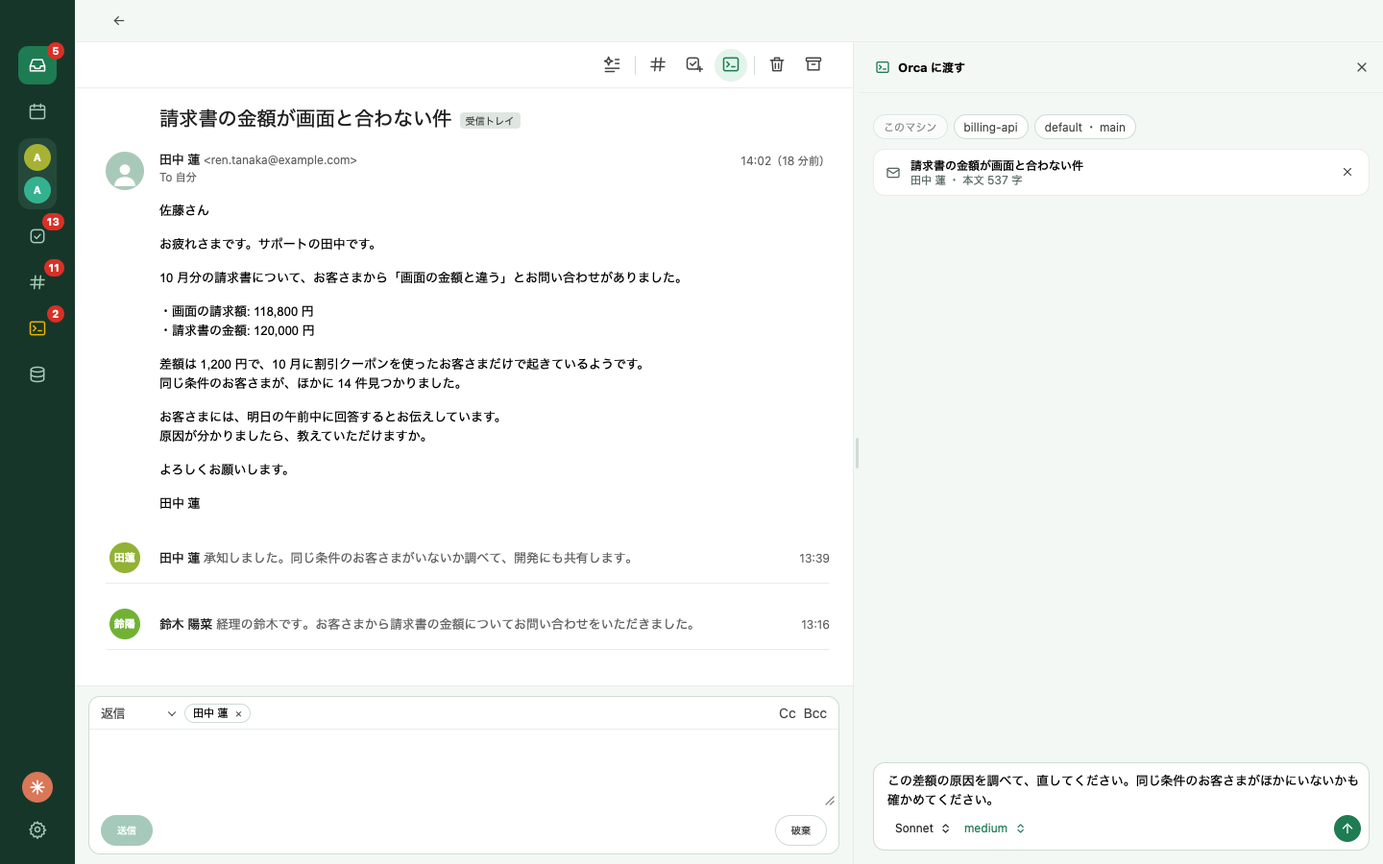
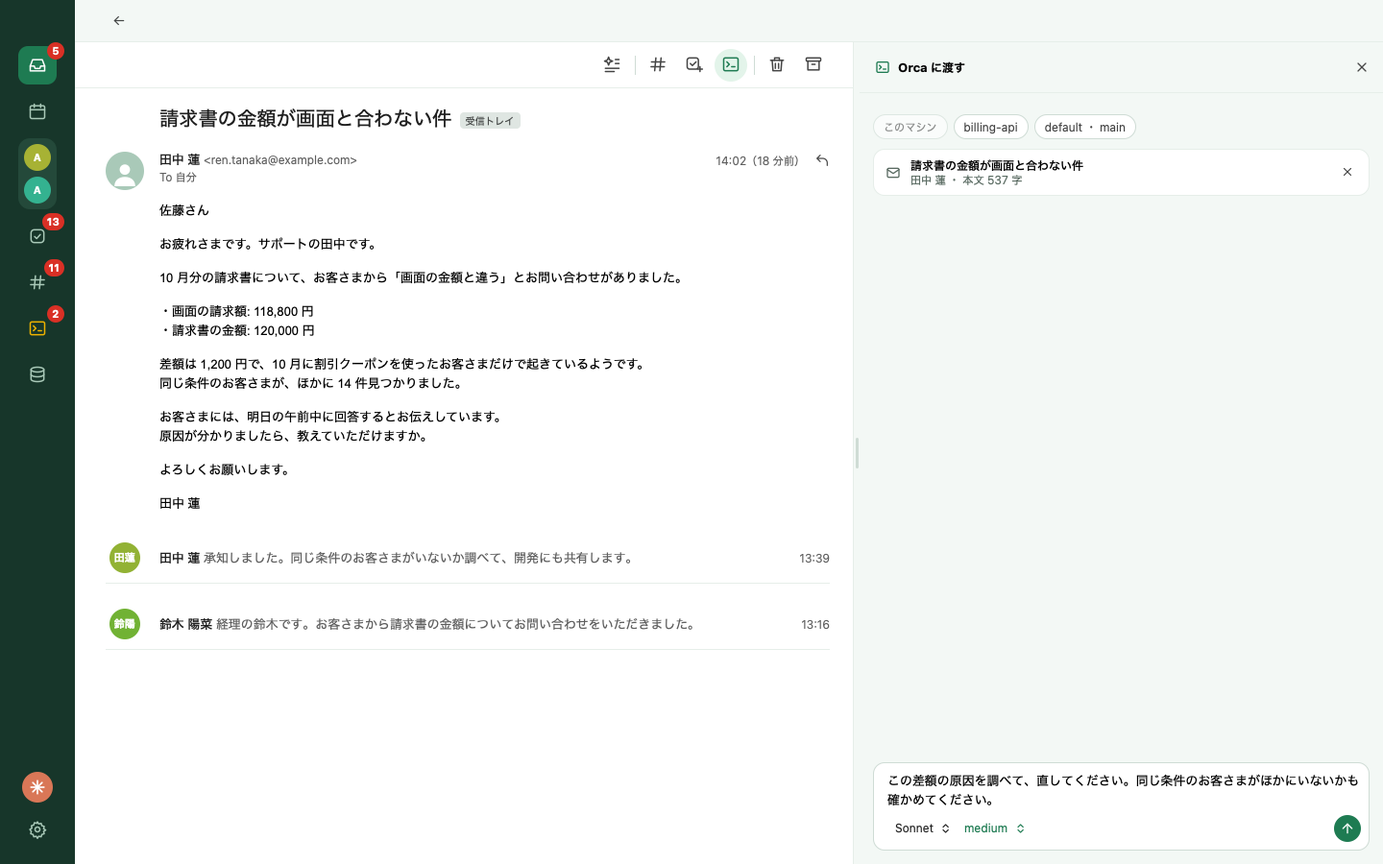
docs: v0.75.1 の CHANGELOG と機能の一覧を書く
This commit is v0.75.1.

diff --git a/docs/features.md b/docs/features.md
@@ -8,7 +8,7 @@ title: 機能
 
 - 複数の Gmail アカウントを追加し、全アカウントの受信トレイを 1 つの一覧で表示する（未読を上、既読を下に分け、それぞれ新しい順）。アカウントの追加と、各アカウントの状態と未読の件数の確認は、設定の「Google」タブで行う
 - スレッドを開いて本文を表示する（日本語の文字コードと HTML メールに対応。メールに埋め込まれた画像は表示する。外部の画像は既定では読み込まず、メッセージの「画像を表示」を押したときだけ取得し、その送信者のアドレスを覚えて、以後はその送信者のメッセージの画像を自動で表示する。自動で取得するのは、Gmail が付けた認証結果（Authentication-Results）が DMARC 合格、または From のドメインと一致する DKIM 署名の合格のメッセージだけで、そうでないメッセージは覚えた送信者でも「画像を表示」を押すまで取得しない。行を押すとすぐ詳細の画面に移り、件名と送り主を出して、本文が届くまで「読み込んでいます…」を出す（届くまで、戻る以外のボタンは押せない）。一度開いたスレッドを開き直すと、前に取った内容をすぐに出し、裏で Gmail に取り直して、返信が届いたときなど内容が変わっていたときだけ出し直す（開いた内容はメモリにだけ持ち、アプリを終了すると消える）。未読のスレッドを開くと既読になる。本文のリンクを押すと、既定のブラウザで開く。HTML の本文の中に文字で書かれた http と https の URL もリンクになる。本文は Gmail と同じ書体（Arial）で出し、メールが書体を指定していればそれに従う。テキスト形式のメールの本文も同じ書体で出し、設定でメールの画面の書体を選ぶとそれを使う。件名のすぐ上に、AI 要約（Claude Code を使えるときだけ）、Slack に貼る、Todo にする、Orca に渡す、ゴミ箱へ移動、アーカイブのボタンが右に寄せて 1 行に並び、本文をスクロールしても残る。上端の帯には「戻る」だけがある。複数のメッセージがあるスレッドでは、新しい順に並べ、最新のメッセージだけを一番上で開き、古いものは 1 行に畳んで、押すと開く）
-- スレッドの下に固定した返信欄から、返信を書いて送る（欄はメッセージの下にあり、メッセージはその上でスクロールするので、読みながら書ける。「返信」は最後のメッセージの差出人（Reply-To があればその宛先）に、「全員に返信」はその人と To のほかの人に送り、Cc の人を Cc に入れる。自分のアカウントは宛先に入れない。宛先はチップで並び、× で外せる。「Cc」「Bcc」を押すとその行が開き、アドレスを打って Enter かカンマを打つか、欄を離れるとチップになる。本文はテキスト。「送信」で、スレッドを受け取ったアカウントから、同じスレッドへの返信として送り、スレッドを読み直して、送ったメールを出す。失敗したときはエラーを出し、書いた内容は残る。「破棄」で欄を空にする。スレッドを離れると書きかけは消え、下書きは保存しない。ファイルは添付できない。Gmail の `users.messages.send` で送り、スコープは `gmail.modify` のままなので、再ログインは要らない）
+- 最新のメッセージの日時の右にある返信のボタンで、スレッドの下に返信欄を開き、返信を書いて送る（欄はメールの画面の高さの半分を取り、メッセージはその上でスクロールするので、読みながら書ける。「返信」は最後のメッセージの差出人（Reply-To があればその宛先）に、「全員に返信」はその人と To のほかの人に送り、Cc の人を Cc に入れる。自分のアカウントは宛先に入れない。宛先はチップで並び、× で外せる。「Cc」「Bcc」を押すとその行が開き、アドレスを打って Enter かカンマを打つか、欄を離れるとチップになる。本文は Slack の投稿欄と同じく書式つきで書け（太字、斜体、取り消し線、リンク、リスト、引用、コード）、HTML のメールとテキストのメールを両方入れて送る。「送信」（⌘Enter でもよい）で、スレッドを受け取ったアカウントから、同じスレッドへの返信として送り、スレッドを読み直して、送ったメールを出す。失敗したときはエラーを出し、書いた内容は残る。送れたときと「破棄」で、欄を空にして閉じる。スレッドを離れると書きかけは消え、下書きは保存しない。ファイルは添付できない。Gmail の `users.messages.send` で送り、スコープは `gmail.modify` のままなので、再ログインは要らない）
 - 受信トレイの見出しの「作成」（鉛筆のアイコン）で、新しいメールを書く画面を開く（ダイアログではなく、メールの画面の中に開く。「差出人」は送るアカウントで、アカウントが複数あれば選べる。「宛先」「Cc」「Bcc」は返信欄と同じチップで、その下に「件名」と本文（テキスト）がある。下に固定した帯の「送信」で送り、送れたら「送信しました」と出して受信トレイに戻る。失敗したときはエラーを出し、書いた内容は残る。「戻る」と「破棄」は、書いた内容を捨てて受信トレイに戻る。ファイルは添付できない）
 - スレッドをアーカイブする・ゴミ箱へ移動する（詳細画面のボタン、または一覧の行にマウスを乗せると出るボタン）。直前の 1 件は Cmd+Z（Windows では Ctrl+Z）かお知らせの「元に戻す」で戻せる
 - 一覧のチェックボックスで、スレッドを既読・未読にする（未読の行には緑の点が付く）。未読の行の上の見出し「未読」の右端の「すべて既読にする」で、一覧に出ている未読のスレッドをまとめて既読にでき（最大 4 件ずつ送る。失敗した行は未読に戻してエラーを出す）、通知の「元に戻す」で未読に戻せる
@@ -29,7 +29,7 @@ title: 機能
 - 「未読」のチャンネルの見出しの右端のアイコン「既読にする」で、そのチャンネルの既読位置を最新の未読のメッセージまで進める（一覧に出ていない分も含む。戻せない）。そのチャンネルのスレッドの未読の返信も既読になる。スレッドは開かない。1 件ずつ既読にするチェックと、一覧全体の「すべて既読にする」はない
 - 未読の返信があるスレッドは未読の段に出し、行の下の「未読の返信 N 件」で返信を開閉する（最初は開いている。ここで読んでも Slack 側のスレッドの未読は消えない）
 - サイドメニューのチャンネルを押すと、そのチャンネルの履歴を開く（最新の 50 件を、古い順に日付の区切りの下に出し、最新のメッセージの位置で開く。ヘッダーはチャンネルの名前とワークスペースの名前だけ。行は未読の行と同じで、返信のあるメッセージは「N 件の返信」でスレッドを開き、しおりでウォッチできる。リアクションは、本文の下に絵文字と数で並び（カスタム絵文字は画像で出す。画像を読むには `emoji:read` が要り、なければ `:名前:` で出す）、押して付け外しできる（自分が付けたものは枠の色が変わる。付け外しには `reactions:write` が要る）。最後の「☺+」でピッカーを開き、絵文字を検索して付けられる（最近・このワークスペース・標準の順。このアプリを開いている間に付けたものが「最近」に並ぶ）。スレッドへの返信をチャンネルにも投稿したメッセージには、本文の上に薄い色で「スレッドに返信済み: 」と元のメッセージの書き出しを出し、押すとそのスレッドを開く。チャンネルを押すと、「未読」の見出しの「既読にする」と同じく、そのチャンネルを既読にする。読めないときはエラーと「再読み込み」を出す）
-- チャンネルの履歴の下の欄から、そのチャンネルに投稿できる（欄は書式つきで書け、枠の上の段のボタンで、選んだ文字を太字、斜体、取り消し線、リンク、番号付きリスト、箇条書き、引用、コード、コードブロックにできる。Enter は改行、⌘Enter（Windows は Ctrl+Enter）か枠の右下の矢印で、自分の名前で投稿する。書式は Slack の書き方に直して送り、リンクは http、https、mailto のアドレスだけをリンクにする。空の文章は投稿できず、10,000 文字まで。投稿できたら欄を空にして履歴を読み直し、最新のメッセージを出す。失敗したときはエラーを出して文章を残す。書きかけの文章は、チャンネルごとにアプリを終了するまで残る）
+- チャンネルの履歴の下の欄から、そのチャンネルに投稿できる（欄は書式つきで書け、枠の上の段のボタンで、選んだ文字を太字、斜体、取り消し線、リンク、番号付きリスト、箇条書き、引用、コード、コードブロックにできる。Enter は改行、⌘Enter（Windows は Ctrl+Enter）か枠の右下の矢印で、自分の名前で投稿する。書式は Slack の書き方に直して送り（空の行は空の行のまま送る）、リンクは http、https、mailto のアドレスだけをリンクにする。空の文章は投稿できず、10,000 文字まで。投稿できたら欄を空にして履歴を読み直し、最新のメッセージを出す。失敗したときはエラーを出して文章を残す。書きかけの文章は、チャンネルごとにアプリを終了するまで残る）
 - Slack の一覧の読み込みで新しい未読のメッセージが見つかると、ウィンドウの右下にカードを出す（送信者のアイコンと名前、チャンネル、本文を 1 行で。既読にする・ウォッチ・スレッドを開くのボタン。スレッドを開くは他の画面からでもそのスレッドに移る。新着メールのカードと同じ積み重ねで、合わせて最大 3 枚。10 秒で消える（マウスやフォーカスが乗っている間は残る）。そのメッセージが未読でなくなると（一覧や Slack で既読にしたときも、チャンネルを一覧から外したときも、ウォッチしたときも）すぐに消える。起動後の最初の読み込みと、ウォッチしたスレッドでは出さず、OS の通知も使わない）
 - 一覧の行を押すと、そのスレッドの詳細が開く（メッセージを古い順に、送信者のアイコン、名前、時刻、本文で出す。本文の Slack の書式（`*太字*`、`_斜体_`、`~取り消し~`、`` `コード` ``、``` で囲んだコードブロック、`>` で始まる引用）は、その見た目で出す。添付の画像はサムネイルで、画像でないファイルは名前の札で出し、押すと Slack で開く。ボットやアプリの投稿のブロックと添付のカードも出す（URL 付きのボタンは既定のブラウザで開く。画像は「画像を表示」を押したときだけ取得する。添付の長い本文は最初の 5 行で畳み、「もっと表示する」で全文を出す。別のメッセージを共有した投稿では、そのメッセージへのリンクを「メッセージ」というラベルで出す）。メッセージのリアクションは、本文の下に絵文字と数で並び、チャンネルの履歴と同じく、カスタム絵文字は画像で出し、押して付け外しでき、「☺+」のピッカーから付けられる。「Slack で開く」と、「Todo にする」（Claude Code と Todoist が使えるときだけ。要約のカードは「[Slack のメッセージを要約して Todo にする](slack.md#slack-のメッセージを要約して-todo-にする)」と同じ）がある）
 - Slack の本文のユーザーへのメンションは、そのユーザーのプロフィールへのリンクになり、押すと既定のブラウザで開く（一覧、チャンネルの履歴、スレッド。ユーザーグループへのメンションは文字のまま）
@@ -49,7 +49,7 @@ title: 機能
 - 新しい版が GitHub Releases に出ると、右下にポップアップが現れ、設定のアイコンと、設定の「アップデート」タブに赤い点が付く。ポップアップの「更新して再起動」を押すと、新しい版をダウンロードして署名を確かめ、入れ替えて再起動する（古いアプリが終わってから新しいアプリを開く。macOS の Apple Silicon のみ。起動時と 5 分ごとに確認する）。「あとで」で閉じると、同じ版ではアプリを終了するまで出ない（新しい版が出れば、また出る）
 - 設定の「アップデート」タブに、いま動いている版を表示する。更新の方法は「手動」と「自動」から選べる（初期値は自動）。手動は上の動きで、自動は新しい版が見つかり次第、裏で入れ替える（再起動はしない。ポップアップが「新しい版の準備ができました」になり、「再起動」を押すと再起動する。再起動を待つあいだも確認を続け、入れ替えた版よりさらに新しい版が出ていれば、それを入れ替え直す。同じ版は取り直さない）。新しい版があるときは、このタブにも同じボタンが出る（「あとで」のあとも出る）。「今すぐ確認」で、すぐに確かめ直せる
 - 設定の「ログ」タブで、アプリのログを見る（新しい順の表で、時刻、重さ（エラー、警告、情報）、場所、内容を出す。「すべて」「エラー」「警告」で絞り込み、「コピー」で出ている行をコピーし、「フォルダを開く」でログのファイル `app-log.jsonl` があるフォルダを開く。ログはタブを出すたびに読む。ログに書き込む機能はまだないので、いまは「ログはありません」と出る）
-- サイドメニューの Orca のアイコンで、Orca のプロジェクトを一覧する（状態のアイコンとセッション数を出し、SSH の接続先も並べる）。作業中のセッションがあるプロジェクトを先頭に集め、その中は入った順に固定して、新しく作業が始まったものを先頭に入れる（作業が進んでも入れ替わらない）。その下に、セッションはあるが作業中ではないプロジェクトを並べ、セッションの無いプロジェクトはその下に並べる（どちらも最近動いた順）。プロジェクトの行は、矢印で開くとセッションごとの行が 1 段字下げして出る（複数のプロジェクトを同時に開ける。最初は作業中のプロジェクトがすべて開いていて、閉じたプロジェクトも、新しいセッションが作業を始めると開き直す。行を押すとそのタブを選び、タブを押すとその行が選ばれる）。入力待ちと、完了や中断で止まって未確認のセッションの件数はサイドメニューのアイコンに出す。作業中のセッションがある間は、アイコンが黄色になってゆっくり明滅する。一覧の幅はドラッグで変えられる。右のペインではプロジェクトのセッションをタブで切り替え、タブから閉じられる。タブはどれもセッションのターミナルで、そのまま打ち込める。最後のタブのすぐ右の＋から「Claude を起動」か「ターミナルを開く」を選ぶと（＋には「スクラッチパッド」もある）、左で選んでいるプロジェクトか SSH の接続先の worktree で始め、そのタブを開く（worktree が 2 件以上なら選ぶ画面を出す）。作業ペインは左右と上下に、数の制限なく分割できる。タブの右クリックの「右に分割」「下に分割」（ファイルのタブでは「パスのコピー」「相対パスをコピー」も出る）か、タブを別のペインの端へドラッグして分け、タブ列か中央へ落とすとそのペインに移る。ペインはそれぞれタブ列と＋を持ち、タブが無くなったペインは閉じる。ペインの境界をドラッグすると、隣り合う 2 つのペインの幅（上下の分割では高さ）を変えられる。分割と大きさはプロジェクトごとに保存し、開き直すと戻る。ターミナルで Claude を起動しても（終わってシェルに戻っても）、そのタブは同じペインの同じ位置に残る。接続先は左ペインの下端で、このマシンか Orca に保存したサーバーから選ぶ（`orca` CLI と Orca のペアリング情報を使う。アプリは履歴を保存しない）
+- サイドメニューの Orca のアイコンで、Orca のプロジェクトを一覧する（状態のアイコンとセッション数を出し、SSH の接続先も並べる）。作業中のセッションがあるプロジェクトを先頭に集め、その中は入った順に固定して、新しく作業が始まったものを先頭に入れる（作業が進んでも入れ替わらない）。その下に、セッションはあるが作業中ではないプロジェクトを並べ、セッションの無いプロジェクトはその下に並べる（どちらも最近動いた順）。プロジェクトの行は、矢印で開くとセッションごとの行が 1 段字下げして出る（行には Orca と同じく会話の名前を出し、最後の返答があれば「名前 - 返答」の形で後ろに添える。複数のプロジェクトを同時に開ける。最初は作業中のプロジェクトがすべて開いていて、閉じたプロジェクトも、新しいセッションが作業を始めると開き直す。行を押すとそのタブを選び、タブを押すとその行が選ばれる）。入力待ちと、完了や中断で止まって未確認のセッションの件数はサイドメニューのアイコンに出す。作業中のセッションがある間は、アイコンが黄色になってゆっくり明滅する。一覧の幅はドラッグで変えられる。右のペインではプロジェクトのセッションをタブで切り替え、タブから閉じられる。タブはどれもセッションのターミナルで、そのまま打ち込める。最後のタブのすぐ右の＋から「Claude を起動」か「ターミナルを開く」を選ぶと（＋には「スクラッチパッド」もある）、左で選んでいるプロジェクトか SSH の接続先の worktree で始め、そのタブを開く（worktree が 2 件以上なら選ぶ画面を出す）。作業ペインは左右と上下に、数の制限なく分割できる。タブの右クリックの「右に分割」「下に分割」（ファイルのタブでは「パスのコピー」「相対パスをコピー」も出る）か、タブを別のペインの端へドラッグして分け、タブ列か中央へ落とすとそのペインに移る。ペインはそれぞれタブ列と＋を持ち、タブが無くなったペインは閉じる。ペインの境界をドラッグすると、隣り合う 2 つのペインの幅（上下の分割では高さ）を変えられる。分割と大きさはプロジェクトごとに保存し、開き直すと戻る。ターミナルで Claude を起動しても（終わってシェルに戻っても）、そのタブは同じペインの同じ位置に残る。接続先は左ペインの下端で、このマシンか Orca に保存したサーバーから選ぶ（`orca` CLI と Orca のペアリング情報を使う。アプリは履歴を保存しない）
 - Orca の一覧の上の検索欄に打った文字で、プロジェクトと SSH の接続先を名前で絞り込む（大文字と小文字は区別せず、合う文字は太字で出す）。Orca 画面のどこにいても Cmd+J（Windows では Ctrl+J）で検索欄に移れ、↓↑で行を動き、Enter で選び、Escape で消す
 - 保存したサーバーでは、一覧とターミナルを Orca から流れてくるデータで描く（読み直しの待ちがなく、色も出る）。ターミナルはペインの大きさに合わせて描き、打ち込むたびにその大きさを Orca に伝える。Orca 本体で同じターミナルを開いていても、Orca から届く大きさに従って描くので崩れない。打ったキーは、そのターミナルの表示をやめた直後（別のタブや画面に移った、ウィンドウが隠れた）でも、打ったターミナルへ送る
 - 開いているメール、Slack のスレッド、Todo の内容を、その画面の右ペインから Orca に渡す。ペインは上から、送り先（この Mac か、保存した環境）、プロジェクト、worktree のチップ、渡す内容のカード、指示の欄の順に並ぶ。worktree は、そのプロジェクトの既存の worktree（プロジェクト自身のフォルダが先頭。名前とブランチを 2 行で出し、検索欄で絞り込める）か、「新規作成」から選ぶ。「新規作成」では、名前、作成元（ローカルとリモートのブランチから選ぶ。選ばなければ Orca の既定）、ブランチ（新しいブランチの名前か、既存のブランチ）を決められる。プロジェクトのメニューは、上の検索欄に打った文字で名前を絞り込める。指示は書いたまま渡す。指示の欄は 1 行から文に合わせて伸び、枠の中で要約のモデルと effort を切り替えられる。右下の矢印のアイコン（Cmd+Enter でもよい）を押すと、Claude がカードの内容を箇条書きに要約し、指示、添付したファイルのパス、内容の要約、元の内容の引用の順で、新しいセッションを起動する（カードの × で外すと、要約も引用もなく、指示だけを渡す）。起動後は、同じペインにそのセッションのターミナルが出て、そのまま打ち込める（× で閉じるまで、同じセッションを出す。「Orca の画面で開く」で、Orca の画面のそのタブに移れる）（要約には、カードの内容だけを Claude に送る。カードがあって Claude Code を使えないときは渡せない）

diff --git a/docs/orca.md b/docs/orca.md
@@ -10,7 +10,7 @@ Orca は、エージェントを動かすデスクトップアプリです。
 
 サイドメニューの Orca のアイコンで、Orca のプロジェクトを一覧する（状態のアイコンとセッション数を出し、SSH の接続先も並べる）。
 作業中のセッションがあるプロジェクトは上に集め、入った順に固定する（作業が進んでも入れ替わらず、新しく作業が始まったものが先頭に入る）。その下に、セッションはあるが作業中ではないプロジェクトを並べ、セッションの無いプロジェクトはその下に並べる（どちらも最近動いた順）。
-プロジェクトの行の矢印で、そのプロジェクトのセッションの行を開閉する（行は 1 段字下げして並ぶ。複数のプロジェクトを同時に開ける）。
+プロジェクトの行の矢印で、そのプロジェクトのセッションの行を開閉する（行は 1 段字下げして並ぶ。複数のプロジェクトを同時に開ける）。セッションの行には、Orca と同じく会話の名前を出し、最後の返答があれば「名前 - 返答」の形で後ろに添える。
 最初は作業中のプロジェクトがすべて開いていて、閉じたプロジェクトも、新しいセッションが作業を始めると開き直す。
 行を押すとそのタブを選び、右のペインでタブを押すと、その行が選ばれる。
 一覧の上の検索欄に打った文字で、プロジェクトと SSH の接続先を名前で絞り込む（Orca 画面のどこにいても Cmd+J で検索欄に移れ、↓↑で行を動き、Enter で選び、Escape で消す）。

diff --git a/CHANGELOG.md b/CHANGELOG.md
@@ -3,6 +3,16 @@
 The newest version comes first.
 The project was named cookup until v0.14.6.
 
+## v0.75.1
+
+M-10: the reply field of an open thread is no longer always at the bottom; the reply button at the right of the date of the latest message opens it (#687). It takes half of the height of the mail area, and the text scrolls inside it. "破棄" and a reply that went out close it.
+
+M-10: the text of a reply is written in the rich editor of the Slack fields, with bold, italic, strikethrough, links, lists, quotes and code (#688). Cmd+Enter (Ctrl+Enter off macOS) sends it too. The mail goes out with an HTML part made from the text beside the plain text part (#686); a new mail (M-11) is still plain text.
+
+S-6, S-21: an empty line in a Slack post or a reply could reach Slack as the text `<br />`; it is now an empty line, and so it is in a mail reply.
+
+A-8: a session row of the Orca list could show a message that Claude Code put in the conversation, such as the result of a tool, instead of the conversation; it now shows the name of the conversation first, as Orca does, with the last answer after it as "{name} - {answer}" (#690).
+
 ## v0.75.0
 
 D-3: the work pane of a database has two tabs, "テーブル" and "SQL" (#670). A row of the table list opens that table, as its row in the tree does, also with Enter (#671). A right click on a database row opens a menu with "新規クエリ", which opens the SQL tab of the database with an empty field, and "データベースを閉じる", which closes its tree and keeps the connection open (#670).

diff --git a/docs/privacy/index.md b/docs/privacy/index.md
@@ -42,7 +42,7 @@ cookapps（以下「本アプリ」）は、利用者自身のパソコン（mac
 利用者が「元に戻す」を押したときは、その取り消し（ゴミ箱からの復元、受信トレイへの戻し）も依頼します。
 また、スレッドの既読・未読の切り替えも Gmail API に依頼します。
 未読のスレッドを開いたときも、既読にするよう依頼します。
-利用者がスレッドの返信欄か新規作成の画面で「送信」を押したときは、書いたメール（宛先、Cc、Bcc、件名、本文）の送信を Gmail API（`users.messages.send`）に依頼します。
+利用者がスレッドの返信欄か新規作成の画面で「送信」を押したとき（返信欄では ⌘Enter でも）は、書いたメール（宛先、Cc、Bcc、件名、本文）の送信を Gmail API（`users.messages.send`）に依頼します。
 返信のときは、同じスレッドに入るように、そのスレッドの最後のメッセージの Message-ID と References を Gmail API から読み、送るメールに付けます。
 送信には上のスコープ `gmail.modify` を使い、新しいスコープは求めません。
 入力しただけでは送りません。
